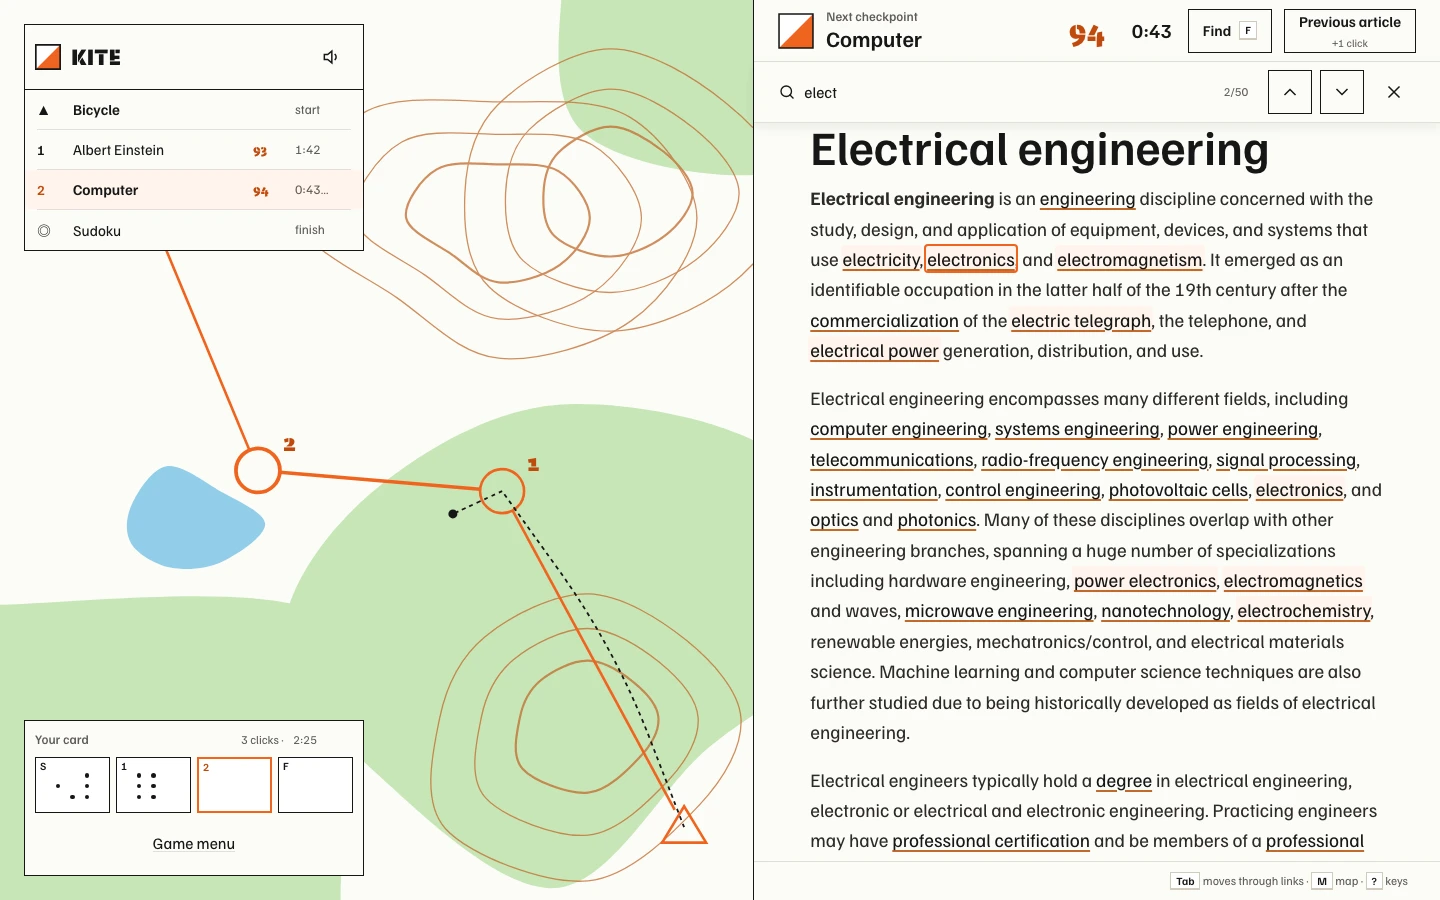
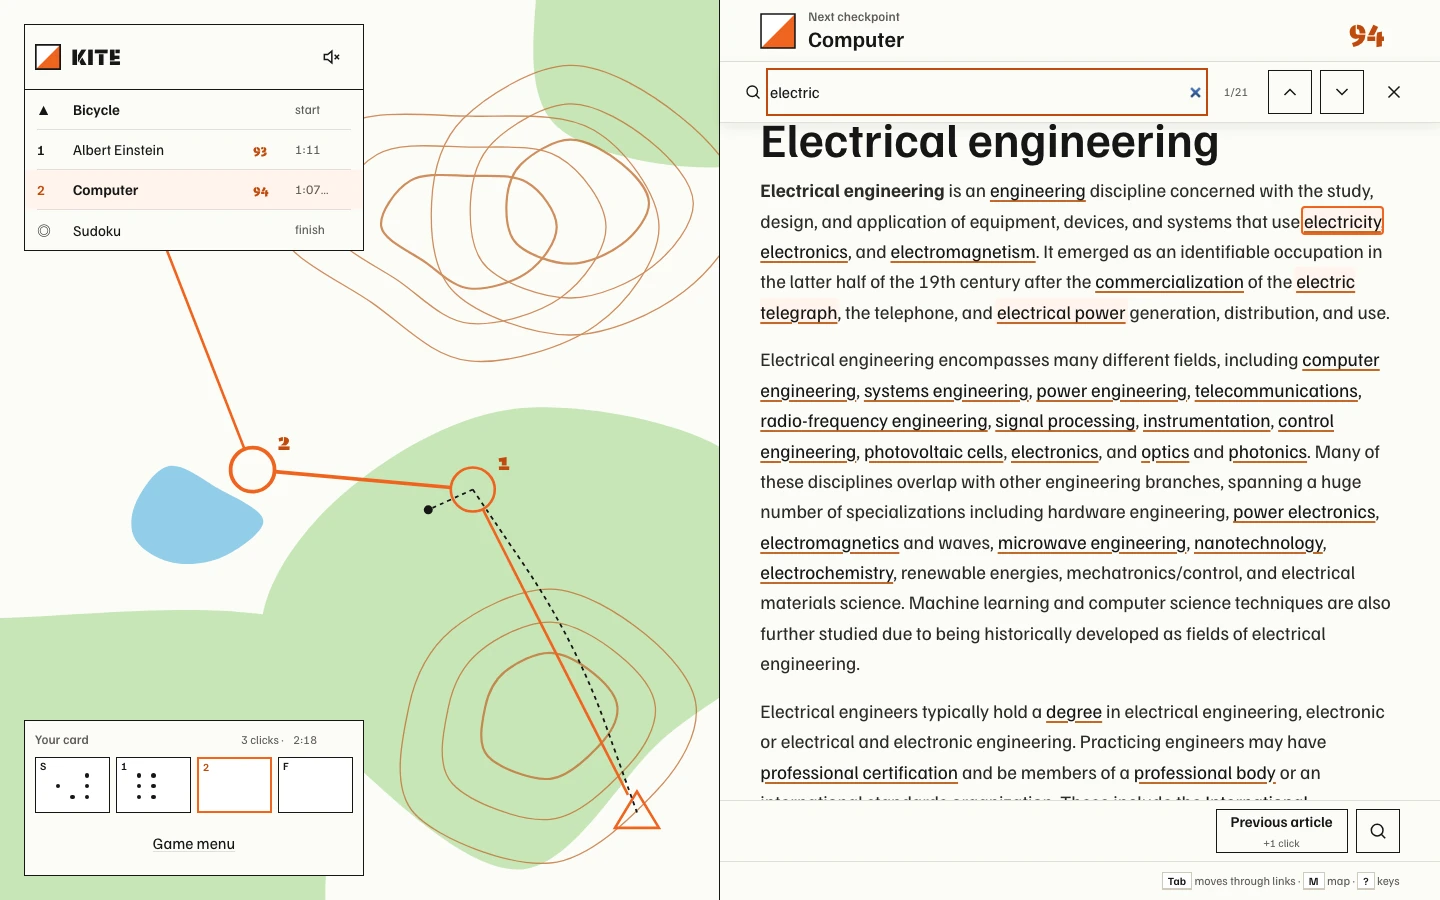
chore: update README.md with enhanced descriptions and new screenshots; add scripts for capturing images

diff --git a/docs/og.html b/docs/og.html
@@ -37,7 +37,7 @@ p{margin:0;color:#4a4742;font-size:22px;line-height:1.45}
       <h1>Race through Wikipedia,<br><em>checkpoint to checkpoint.</em></h1>
       <p>Get from the start to the finish using only<br>the links inside each article. Fewest clicks wins.</p>
     </div>
-    <div class="visual"><img src="screenshots/Kite-og.webp" alt="Today's course on an orienteering map, with the checkpoint list and a punched card"></div>
+    <div class="visual"><img src="screenshots/og-map-crop.webp" alt="Today's course on an orienteering map, with the checkpoint list and a punched card"></div>
   </main>
 </body>
 </html>

diff --git a/README.md b/README.md
@@ -20,7 +20,7 @@ the source of **[kite.ashwin.co.in](https://kite.ashwin.co.in)**, a race through
 
 it borrows from orienteering, where you run a course from checkpoint to checkpoint with a map and a card you punch at each one.
 
-the screenshots show the current desktop and phone layouts with sample progress.
+the screenshots show the current desktop, tablet and phone layouts with sample progress and real wikipedia articles.
 
 ## what it does
 
@@ -89,10 +89,12 @@ the page is an orienteering map and a control card.
 - **the card.** square boxes with a corner number. a checkpoint punches pins into its box, a different pattern for every article.
 - **plain words.** the app says checkpoint, leg time, your card and timed run. control, split, mispunch and score-o stay in this readme.
 - **type.** familjen grotesk for everything you read, bespoke stencil for the wordmark, checkpoint codes and big times, like the code stencilled on a real control stand.
-- **sound.** synthesized in the browser: a footstep for each click, the beep of an electronic punch at a checkpoint, a long beep at the finish, a paper rustle when a sheet opens. it respects the iphone silent switch and goes quiet in a background tab.
+- **sound.** synthesized in the browser: a quiet click for buttons, a distinct two-note sound when you move between articles, the beep of an electronic punch at a checkpoint, a long beep at the finish, and a paper rustle when a sheet opens. the sound toggle remembers your choice, and background tabs stay quiet. on iphones with audio session support, playback respects the silent switch.
 - **no dark mode.** it's a paper map, read in daylight.
-- **on a phone** the map is a strip at the top and your card is a sheet you pull up from the bottom. previous article, find and game menu sit in the card's toolbar. landscape phones put the map on the left. tablets add the course list beside the article. desktops give the map half the screen.
-- **home scrolls as one page.** the main button follows all three play options, so race a friend stays reachable on shorter screens.
+- **one layout across a course.** home, briefing, play and results share the same split, map padding and content gutters. desktops give the map half the screen; larger tablets and landscape phones keep a narrower map beside the content. reader controls move to a separate toolbar when space is tight.
+- **on a phone** the map is a strip at the top and your card is a sheet you pull up from the bottom. previous article, find and game menu sit in the card's toolbar. smaller tablets use this stacked layout too, with the reading column and controls centred.
+- **short transitions.** moving between screens uses a subtle fade and slide while the map holds its place. article changes fade in briefly. reduced motion and keyboard navigation keep screen changes immediate, and browsers without view transitions get a simple entrance animation.
+- **scroll without losing the next step.** home, briefing and results scroll above a pinned action area. a more-below cue appears when content is out of view, including inside sheets. the reader scrolls independently of its controls.
 - **find stays out of the layout.** its bar overlays the article instead of resizing it, with a short fade and slide when tapped. keyboard shortcuts and reduced motion open and close it immediately. results scroll only inside the article pane, clear of the find bar and card drawer; opening the phone keyboard keeps the current reader layout.
 
 ## the stack
@@ -142,6 +144,9 @@ production indexing is configured for `kite.ashwin.co.in`; vercel sends `noindex
 scripts/
   courses.ts        builds courses and their shortest routes
   fonts.mjs         fetches bespoke stencil at build time
+docs/
+  capture-screenshots.py  captures the README images with sample progress
+  render-og.py      renders the social share image
 src/
   data/             courses.json, pool.json
   lib/
@@ -167,6 +172,13 @@ src/
 
 <br>
 
+<p align="center">
+  <img src="./docs/screenshots/Kite-home.webp" width="49%" alt="desktop home: an orienteering map beside today's course and a pinned start button">
+  <img src="./docs/screenshots/Kite-brief.webp" width="49%" alt="desktop briefing: the same map and divider beside the course checkpoints and start button">
+</p>
+
+![kite on a tablet: the same split layout, with the course and punched card over the map and the reader controls below the article](./docs/screenshots/Kite-tablet.webp)
+
 ![the finished card on desktop: the time in big stencil numbers, the punched card, and a table of legs with clicks, shortest and time](./docs/screenshots/Kite-5.webp)
 
 <p align="center">
@@ -185,6 +197,19 @@ src/
 </p>
 
 </details>
+
+### refreshing the screenshots
+
+with the dev server running, install python's `playwright` and `Pillow` packages and the chromium browser, then run:
+
+```bash
+python3 -m pip install playwright Pillow
+python3 -m playwright install chromium
+python3 docs/capture-screenshots.py
+python3 docs/render-og.py
+```
+
+the capture script uses a fixed date and sample local progress, fetches real wikipedia articles, and caches the responses in your temporary directory. it refreshes the README images and the map crop used by the social share image. pass `--base-url` if your dev server uses another address.
 
 ## credit
 
